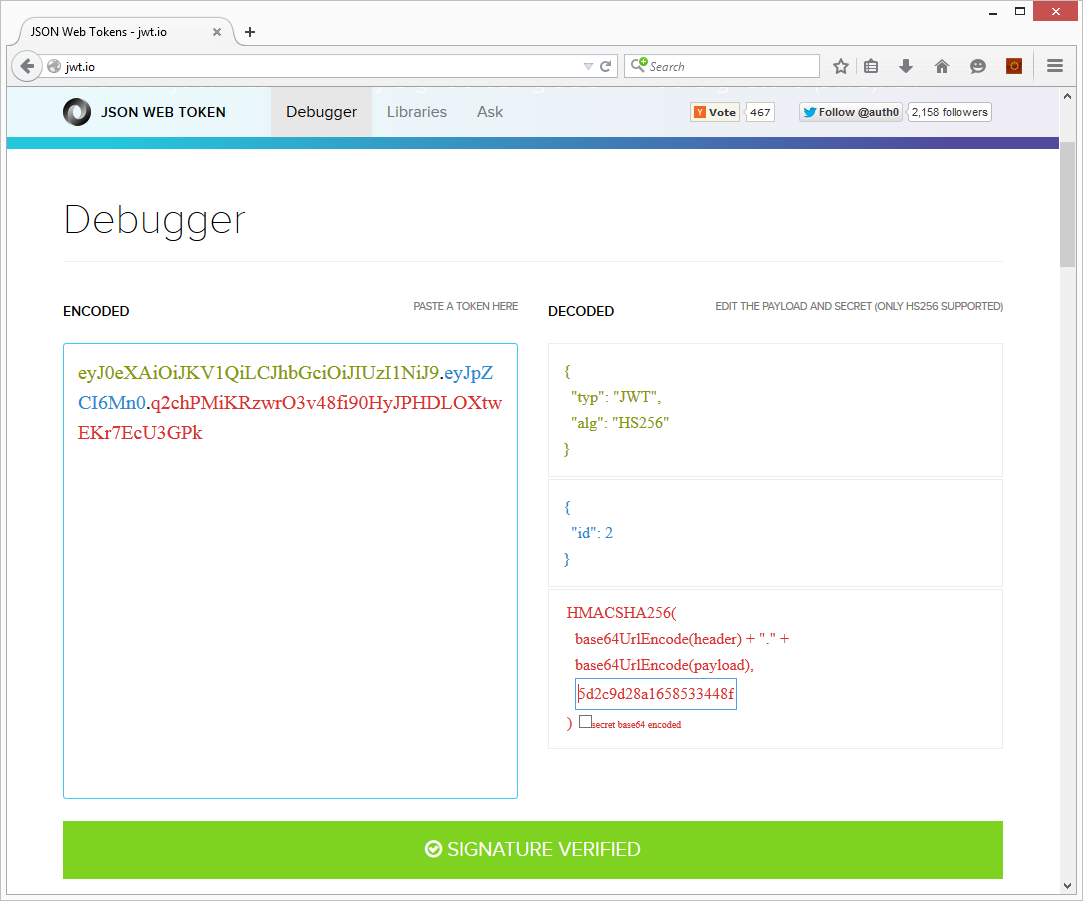
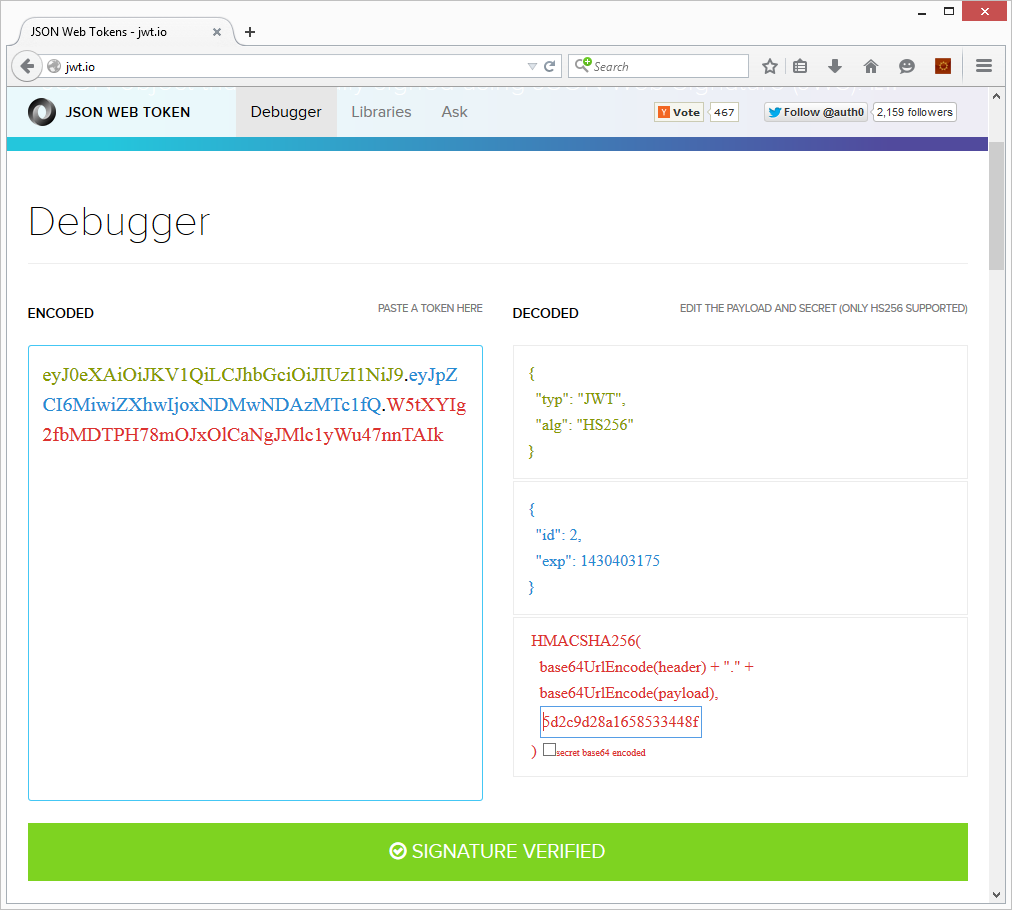
Site updated: 2015-04-23 14:20:15

diff --git a/2015/04/how-to-add-jwt-authentication-to-a-cakephp-3-rest-api/index.html b/2015/04/how-to-add-jwt-authentication-to-a-cakephp-3-rest-api/index.html
@@ -122,13 +122,12 @@ composer installing and running the database migration</li>
 <h2 id="1-_Introduction">1. Introduction</h2><p>The web is already filled with information about JSON Web Token (JWT) Authentication so we will not
 duplicate it here but in a nutshell it allows authenticating users against a single token instead
 of the more commonly used username/password. </p>
-<p>As a side effect our API will be able to benefit from some (very cool) additional JWT functionality like:    </p>
+<p>As a side effect our API will benefit from some (very cool) additional JWT functionality like:    </p>
 <ul>
 <li>No more need for sessions</li>
 <li>No more need to protect our API against Cross-Site Request Forgery (CSRF)</li>
 <li>Support for granular security through the use of JWT scopes</li>
 </ul>
-<p><strong>Discuss:</strong> JWT Plugin tokens are valid for ???</p>
 <h2 id="2-_Adding_Users_To_The_Application">2. Adding Users To The Application</h2><h3 id="Populate_the_database">Populate the database</h3><p>Download this CakePHP
 <a href="https://github.com/bravo-kernel/application-examples/blob/master/blog-how-to-add-jwt-authentication-to-a-cakephp-3-rest-api/config/Migrations/20150420112310_users.php" target="_blank" rel="external">database migration file</a>
 to your <code>config/Migrations</code> directory.</p>
@@ -200,7 +199,10 @@ to the JSON response body by extending the <code>add()</code> method with some c
 <a href="http://crud.readthedocs.org/en/latest/actions/add.html#crud-aftersave" target="_blank" rel="external">afterSave</a>
 and <a href="http://crud.readthedocs.org/en/latest/actions/add.html#serialize" target="_blank" rel="external">serialize</a> logic.</p>
 <p>To implement user registration add the following <code>add()</code> method to <code>src/Controller/Api/UsersController.php</code>:</p>
-<figure class="highlight php"><table><tr><td class="gutter"><pre><span class="line">1</span><br><span class="line">2</span><br><span class="line">3</span><br><span class="line">4</span><br><span class="line">5</span><br><span class="line">6</span><br><span class="line">7</span><br><span class="line">8</span><br><span class="line">9</span><br><span class="line">10</span><br><span class="line">11</span><br><span class="line">12</span><br><span class="line">13</span><br></pre></td><td class="code"><pre><span class="line"><span class="keyword">public</span> <span class="function"><span class="keyword">function</span> <span class="title">add</span><span class="params">()</span></span><br><span class="line"></span>&#123;</span><br><span class="line">    <span class="variable">$this</span>-&gt;Crud-&gt;on(<span class="string">'afterSave'</span>, <span class="function"><span class="keyword">function</span><span class="params">(\Cake\Event\Event <span class="variable">$event</span>)</span> </span>&#123;</span><br><span class="line">        <span class="keyword">if</span> (<span class="variable">$event</span>-&gt;subject-&gt;created) &#123;</span><br><span class="line">            <span class="variable">$this</span>-&gt;set(<span class="string">'data'</span>, [</span><br><span class="line">                <span class="string">'id'</span> =&gt; <span class="variable">$event</span>-&gt;subject-&gt;entity-&gt;id,</span><br><span class="line">                <span class="string">'token'</span> =&gt; <span class="variable">$token</span> = \JWT::encode([<span class="string">'id'</span> =&gt; <span class="variable">$event</span>-&gt;subject-&gt;entity-&gt;id], Security::salt())</span><br><span class="line">            ]);</span><br><span class="line">            <span class="variable">$this</span>-&gt;Crud-&gt;action()-&gt;config(<span class="string">'serialize.data'</span>, <span class="string">'data'</span>);</span><br><span class="line">        &#125;</span><br><span class="line">    &#125;);</span><br><span class="line">    <span class="keyword">return</span> <span class="variable">$this</span>-&gt;Crud-&gt;execute();</span><br><span class="line">&#125;</span><br></pre></td></tr></table></figure>
+<figure class="highlight php"><table><tr><td class="gutter"><pre><span class="line">1</span><br><span class="line">2</span><br><span class="line">3</span><br><span class="line">4</span><br><span class="line">5</span><br><span class="line">6</span><br><span class="line">7</span><br><span class="line">8</span><br><span class="line">9</span><br><span class="line">10</span><br><span class="line">11</span><br><span class="line">12</span><br><span class="line">13</span><br><span class="line">14</span><br><span class="line">15</span><br><span class="line">16</span><br></pre></td><td class="code"><pre><span class="line">    <span class="variable">$this</span>-&gt;Crud-&gt;on(<span class="string">'afterSave'</span>, <span class="function"><span class="keyword">function</span><span class="params">(\Cake\Event\Event <span class="variable">$event</span>)</span> </span>&#123;</span><br><span class="line">        <span class="keyword">if</span> (<span class="variable">$event</span>-&gt;subject-&gt;created) &#123;</span><br><span class="line">            <span class="variable">$this</span>-&gt;set(<span class="string">'data'</span>, [</span><br><span class="line">                <span class="string">'id'</span> =&gt; <span class="variable">$event</span>-&gt;subject-&gt;entity-&gt;id,</span><br><span class="line">                <span class="string">'token'</span> =&gt; <span class="variable">$token</span> = \JWT::encode(</span><br><span class="line">                    [</span><br><span class="line">                        <span class="string">'id'</span> =&gt; <span class="variable">$event</span>-&gt;subject-&gt;entity-&gt;id,</span><br><span class="line">                        <span class="string">'exp'</span> =&gt;  time() + <span class="number">604800</span></span><br><span class="line">                    ],</span><br><span class="line">                Security::salt())</span><br><span class="line">            ]);</span><br><span class="line">            <span class="variable">$this</span>-&gt;Crud-&gt;action()-&gt;config(<span class="string">'serialize.data'</span>, <span class="string">'data'</span>);</span><br><span class="line">        &#125;</span><br><span class="line">    &#125;);</span><br><span class="line">    <span class="keyword">return</span> <span class="variable">$this</span>-&gt;Crud-&gt;execute();</span><br><span class="line">&#125;</span><br></pre></td></tr></table></figure>
+<p><strong>Note:</strong> even though this is not required we are adding the <a href="http://self-issued.info/docs/draft-ietf-oauth-json-web-token.html#expDef" target="_blank" rel="external">JWT exp claim</a>
+to the token payload so the token will expire after one week, effectively forcing the user to request
+a new unique token using the <code>/token</code> action.</p>
 <h3 id="Verify_User_Registration">Verify User Registration</h3><p>To verify your setup register a new user by posting JSON data to your API using:</p>
 <ul>
 <li>URL <code>http://cake3api.app/api/users/register</code></li>
@@ -220,7 +222,8 @@ is valid by:</p>
 <li>pasting your token in the <code>Encoded</code> field</li>
 <li>replacing the secret value with the <code>Salt</code> value found in your <code>config/app.php</code></li>
 </ul>
-<p>If things went well you should be rewarded with a <strong>green</strong> success message and matching user id similar to:</p>
+<p>If things went well you should see a <strong>green</strong> success message along with the user id and JWT exp
+claim as stored in the token:</p>
 <p><br></p>
 <img src="/2015/04/how-to-add-jwt-authentication-to-a-cakephp-3-rest-api/jwt-io-signature-verification.png">
 <h2 id="9-_Implementing_JWT_Token_Requests">9. Implementing JWT Token Requests</h2><h3 id="How_it_works-1">How it works</h3><p>Users can request their JWT token by JSON posting their username and password to the <code>/token</code> action
@@ -231,7 +234,7 @@ body containing the JWT token.</p>
 <p><br></p>
 <img src="/2015/04/how-to-add-jwt-authentication-to-a-cakephp-3-rest-api/jwt-primer-token.png">
 <h3 id="Create_the_action-1">Create the action</h3><p>To implement token requests add the following <code>token()</code> method to <code>src/Controller/Api/UsersController.php</code>:</p>
-<figure class="highlight php"><table><tr><td class="gutter"><pre><span class="line">1</span><br><span class="line">2</span><br><span class="line">3</span><br><span class="line">4</span><br><span class="line">5</span><br><span class="line">6</span><br><span class="line">7</span><br><span class="line">8</span><br><span class="line">9</span><br><span class="line">10</span><br><span class="line">11</span><br><span class="line">12</span><br><span class="line">13</span><br><span class="line">14</span><br><span class="line">15</span><br></pre></td><td class="code"><pre><span class="line"><span class="keyword">public</span> <span class="function"><span class="keyword">function</span> <span class="title">token</span><span class="params">()</span></span><br><span class="line"></span>&#123;</span><br><span class="line">    <span class="variable">$user</span> = <span class="variable">$this</span>-&gt;Auth-&gt;identify();</span><br><span class="line">    <span class="keyword">if</span> (!<span class="variable">$user</span>) &#123;</span><br><span class="line">        <span class="keyword">throw</span> <span class="keyword">new</span> UnauthorizedException(<span class="string">'Invalid username or password'</span>);</span><br><span class="line">    &#125;</span><br><span class="line"></span><br><span class="line">    <span class="variable">$this</span>-&gt;set([</span><br><span class="line">        <span class="string">'success'</span> =&gt; <span class="keyword">true</span>,</span><br><span class="line">        <span class="string">'data'</span> =&gt; [</span><br><span class="line">            <span class="string">'token'</span> =&gt; <span class="variable">$token</span> = \JWT::encode([<span class="string">'id'</span> =&gt; <span class="variable">$user</span>[<span class="string">'id'</span>]], Security::salt())</span><br><span class="line">        ],</span><br><span class="line">        <span class="string">'_serialize'</span> =&gt; [<span class="string">'success'</span>, <span class="string">'data'</span>]</span><br><span class="line">    ]);</span><br><span class="line">&#125;</span><br></pre></td></tr></table></figure>
+<figure class="highlight php"><table><tr><td class="gutter"><pre><span class="line">1</span><br><span class="line">2</span><br><span class="line">3</span><br><span class="line">4</span><br><span class="line">5</span><br><span class="line">6</span><br><span class="line">7</span><br><span class="line">8</span><br><span class="line">9</span><br><span class="line">10</span><br><span class="line">11</span><br><span class="line">12</span><br><span class="line">13</span><br><span class="line">14</span><br><span class="line">15</span><br><span class="line">16</span><br><span class="line">17</span><br><span class="line">18</span><br><span class="line">19</span><br></pre></td><td class="code"><pre><span class="line"><span class="keyword">public</span> <span class="function"><span class="keyword">function</span> <span class="title">token</span><span class="params">()</span></span><br><span class="line"></span>&#123;</span><br><span class="line">    <span class="variable">$user</span> = <span class="variable">$this</span>-&gt;Auth-&gt;identify();</span><br><span class="line">    <span class="keyword">if</span> (!<span class="variable">$user</span>) &#123;</span><br><span class="line">        <span class="keyword">throw</span> <span class="keyword">new</span> UnauthorizedException(<span class="string">'Invalid username or password'</span>);</span><br><span class="line">    &#125;</span><br><span class="line"></span><br><span class="line">    <span class="variable">$this</span>-&gt;set([</span><br><span class="line">        <span class="string">'success'</span> =&gt; <span class="keyword">true</span>,</span><br><span class="line">        <span class="string">'data'</span> =&gt; [</span><br><span class="line">            <span class="string">'token'</span> =&gt; <span class="variable">$token</span> = \JWT::encode([</span><br><span class="line">                <span class="string">'id'</span> =&gt; <span class="variable">$user</span>[<span class="string">'id'</span>],</span><br><span class="line">                <span class="string">'exp'</span> =&gt;  time() + <span class="number">604800</span></span><br><span class="line">            ],</span><br><span class="line">            Security::salt())</span><br><span class="line">        ],</span><br><span class="line">        <span class="string">'_serialize'</span> =&gt; [<span class="string">'success'</span>, <span class="string">'data'</span>]</span><br><span class="line">    ]);</span><br><span class="line">&#125;</span><br></pre></td></tr></table></figure>
 <h3 id="Verify_Token_Request">Verify Token Request</h3><p>To verify your setup request a token for the newly created user by posting JSON data to your API using:</p>
 <ul>
 <li>URL <code>http://cake3api.app/api/users/token</code></li>
@@ -273,6 +276,7 @@ by using the exact same query but <strong>this time removing</strong> the <code>
 <h2 id="Additional_reading">Additional reading</h2><ul>
 <li><a href="https://github.com/bravo-kernel/application-examples/tree/master/blog-how-to-prefix-route-a-cakephp3-rest-api" target="_blank" rel="external">End-state application sources</a> for this tutorial</li>
 <li>The <a href="https://github.com/ADmad/cakephp-jwt-auth" target="_blank" rel="external">CakePHP JWT Plugin</a> on Github</li>
+<li>The <a href="https://github.com/firebase/php-jwt" target="_blank" rel="external">PHP JWT Library</a> on Github</li>
 <li>The <a href="http://book.cakephp.org/3.0/en/index.html" target="_blank" rel="external">CakePHP 3 Book</a> and <a href="http://api.cakephp.org/3.0/" target="_blank" rel="external">CakePHP 3 API</a> documentation</li>
 </ul>
 <p><em>Hat tip to CakePHP Core Developer and JWT Plugin creator <a href="https://github.com/ADmad/" target="_blank" rel="external">ADmad</a> for
